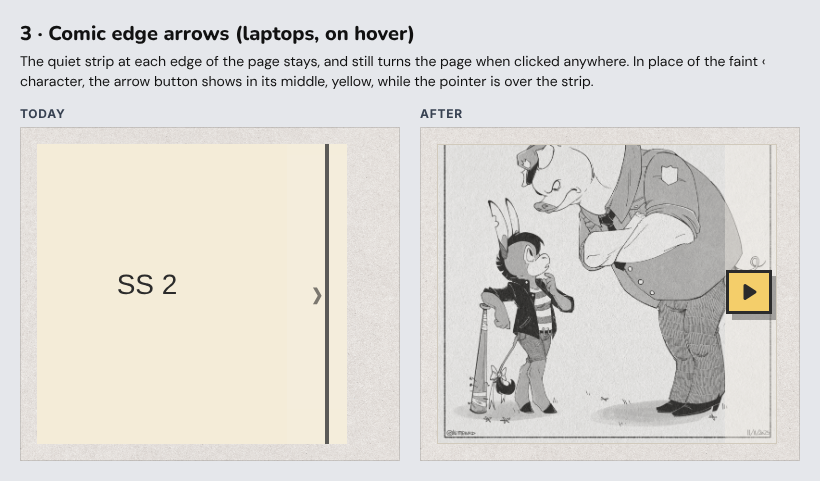
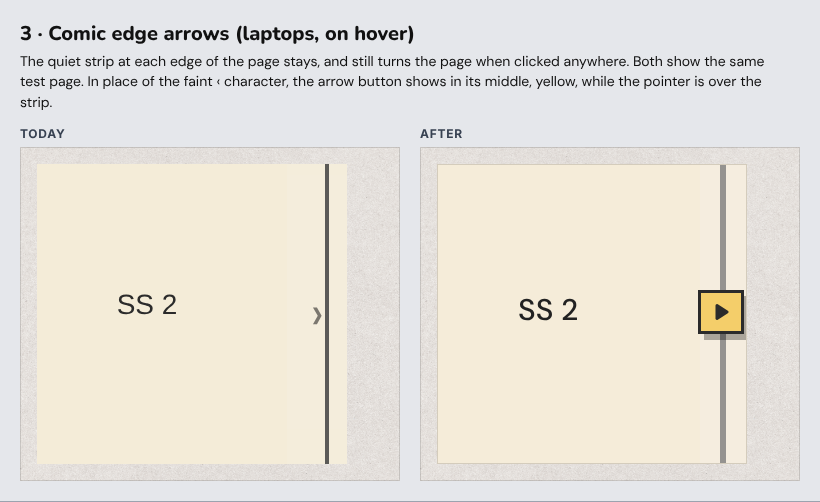
Arrows design: fold in the persona walkthrough
One blocking finding: a hover lift written as a transform would move full
screen's centred side buttons, so the lift now uses the translate
property. Also: hover only where the device can hover; reduced motion
means no movement; exact values for "can't be used"; the carousel has
no such state; three spoken names lose an arrow, not one; the guide's
second "Back to page" line; mock-ups 3 to 5 redrawn at the same scale
and content and on the carousel's kraft band; new mock-ups 10 and 11
for the carousel and full screen with text at 200%.

Claude-Session: https://claude.ai/code/session_01HWRLNSVAoX5Ni8d8XcwJh1

diff --git a/docs/design/mockups/arrows/mockups.html b/docs/design/mockups/arrows/mockups.html
@@ -17,6 +17,7 @@
   .tag { font: 700 12px system-ui; text-transform: uppercase; letter-spacing: .06em; color: #374151; margin: 0 0 6px; }
   .paper { background: var(--beige) url('../../../../public/assets/images/Paper_2_Tileable.png'); background-size: 400px; color: var(--ink); }
   .dark { background: var(--night); color: var(--beige); }
+  .kraft { background: #bd9f76 url('../../../../public/assets/images/Paper_2_Tileable.png'); background-size: 420px; background-blend-mode: multiply; color: var(--ink); }
   .pair { display: grid; grid-template-columns: 1fr 1fr; gap: 20px; align-items: start; }
   .cell { padding: 16px; border: 1px solid #0002; }
   img.today { display: block; max-width: 100%; }
@@ -153,33 +154,33 @@
 <!-- 3 -->
 <div class="frame" id="f3" style="width:820px">
   <h2>3 · Comic edge arrows (laptops, on hover)</h2>
-  <p class="sub">The quiet strip at each edge of the page stays, and still turns the page when clicked anywhere. In place of the faint ‹ character, the arrow button shows in its middle, yellow, while the pointer is over the strip.</p>
+  <p class="sub">The quiet strip at each edge of the page stays, and still turns the page when clicked anywhere. Both show the same test page. In place of the faint ‹ character, the arrow button shows in its middle, yellow, while the pointer is over the strip.</p>
   <div class="pair">
     <div><p class="tag">Today</p><div class="cell paper"><img class="today" src="today-comic-edge.png" style="height:300px"></div></div>
-    <div><p class="tag">After</p><div class="cell paper"><div class="edge" style="width:340px"><div class="page"></div><div class="zone"><span class="ab hover"><svg viewBox="0 0 24 24"><use href="#next"/></svg></span></div></div></div></div>
+    <div><p class="tag">After</p><div class="cell paper"><div class="edge" style="width:310px; background:#f5ecd9"><span style="position:absolute; left:80px; top:125px; font:500 30px 'DM Sans'; color:#222">SS 2</span><span style="position:absolute; right:20px; top:0; bottom:0; width:6px; background:#555"></span><div class="zone"><span class="ab hover"><svg viewBox="0 0 24 24"><use href="#next"/></svg></span></div></div></div></div>
   </div>
 </div>
 
 <!-- 4 -->
 <div class="frame" id="f4" style="width:720px">
   <h2>4 · Portfolio carousel</h2>
-  <p class="sub">The black squares with ‹ and › become the same arrow buttons. The right one shows the pointer over it.</p>
+  <p class="sub">The black squares with ‹ and › become the same arrow buttons, on the section's kraft band. The right one shows the pointer over it.</p>
   <p class="tag">Today</p>
   <div class="cell paper" style="margin-bottom:16px"><img class="today" src="today-carousel.png" width="640"></div>
   <p class="tag">After</p>
-  <div class="cell paper"><div class="carousel"><span class="ab"><svg viewBox="0 0 24 24"><use href="#previous"/></svg></span><div class="thumb"></div><div class="thumb"></div><div class="thumb"></div><span class="ab hover"><svg viewBox="0 0 24 24"><use href="#next"/></svg></span></div></div>
+  <div class="cell kraft"><div class="carousel"><span class="ab"><svg viewBox="0 0 24 24"><use href="#previous"/></svg></span><div class="thumb"></div><div class="thumb"></div><div class="thumb"></div><span class="ab hover"><svg viewBox="0 0 24 24"><use href="#next"/></svg></span></div></div>
 </div>
 
 <!-- 5 -->
 <div class="frame" id="f5" style="width:1180px">
   <h2>5 · Full screen on a laptop</h2>
-  <p class="sub">The same button, turned around for the dark view: near-black with a beige border, arrow and caption, and a pale shadow. On the first piece, Previous can't be used. The emoji-prone ◀ ▶ characters go.</p>
+  <p class="sub">The same button, turned around for the dark view: near-black with a beige border, arrow and caption, and a pale shadow. On the first piece, Previous can't be used. The emoji-prone ◀ ▶ characters go. Both are a 1100 by 800 screen shown at half size; the bars and Close are unchanged.</p>
   <div class="pair">
-    <div><p class="tag">Today</p><img class="today" src="today-full-screen.png" width="550"></div>
+    <div><p class="tag">Today</p><img class="today" src="today-full-screen.png" width="550"></div><!-- after: drawn at the same 1100 by 800 and shown at half size, like today -->
     <div><p class="tag">After</p>
-      <div class="fs dark" style="width:550px; height:400px">
+      <div class="fs dark" style="width:1100px; height:800px; zoom:0.5">
         <div class="top"><b>Night Market</b><span>1 of 12 · Original Work</span><span class="close">✕ Close</span></div>
-        <div class="pic" style="inset:60px 80px 70px"></div>
+        <div class="pic" style="inset:70px 90px 80px"></div>
         <span class="ab off side" style="left:8px"><svg viewBox="0 0 24 24"><use href="#previous"/></svg>Previous</span>
         <span class="ab side" style="right:8px"><svg viewBox="0 0 24 24"><use href="#next"/></svg>Next</span>
         <div class="zoom" style="bottom:10px"><span class="zb off">−</span><span class="lvl">100%</span><span class="zb">+</span><span class="zb off" style="font-size:.85rem">Fit</span></div>
@@ -269,6 +270,35 @@
       <span class="ab off" style="order:3"><svg class="dbl" viewBox="0 0 32 24"><use href="#first"/></svg>First</span>
       <span class="ab" style="order:4"><svg class="dbl" viewBox="0 0 32 24"><use href="#newest"/></svg>Newest</span>
     </div>
+  </div>
+</div>
+
+<!-- 10 -->
+<div class="frame" id="f10" style="width:380px">
+  <h2>10 · The carousel, enlarged text</h2>
+  <p class="sub">A 320 px phone with text at 200%, on the Fan Art band (the darkest). The arrows stay 44 px; the right one has keyboard focus (the purple ring, 3.8:1 on the band).</p>
+  <div class="kraft" style="width:320px; padding:20px 8px">
+    <div style="font:900 2.4rem/1.1 'Nunito'; margin:0 4px 14px">Fan Art</div>
+    <div class="carousel" style="width:304px; gap:6px">
+      <span class="ab"><svg viewBox="0 0 24 24"><use href="#previous"/></svg></span>
+      <div class="thumb" style="flex:0 0 140px; height:180px"></div>
+      <div class="thumb" style="flex:1; height:180px"></div>
+      <span class="ab focus"><svg viewBox="0 0 24 24"><use href="#next"/></svg></span>
+    </div>
+  </div>
+</div>
+
+<!-- 11 -->
+<div class="frame" id="f11" style="width:380px">
+  <h2>11 · Full screen, enlarged text</h2>
+  <p class="sub">A 320 px phone held upright with text at 200%. The buttons grow to fit "Previous" and "Next"; the zoom controls move to their own row above them.</p>
+  <div class="fs dark" style="width:320px; height:640px">
+    <div class="top" style="height:72px"><b style="font-size:1.6rem">Night Market</b><span class="close" style="font-size:1.6rem">✕</span></div>
+    <div class="pic" style="inset:80px 8px 190px"></div>
+    <div class="bottom" style="height:180px"></div>
+    <div class="zoom" style="bottom:102px"><span class="zb off" style="font-size:2rem">−</span><span class="lvl" style="font-size:1.5rem">100%</span><span class="zb" style="font-size:2rem">+</span><span class="zb off" style="font-size:1.5rem">Fit</span></div>
+    <span class="ab side" style="left:8px; top:auto; bottom:12px; transform:none; width:auto; min-width:56px; min-height:72px; font-size:1.4rem; padding:4px 10px"><svg viewBox="0 0 24 24"><use href="#previous"/></svg>Previous</span>
+    <span class="ab side" style="right:12px; top:auto; bottom:12px; transform:none; width:auto; min-width:56px; min-height:72px; font-size:1.4rem; padding:4px 10px"><svg viewBox="0 0 24 24"><use href="#next"/></svg>Next</span>
   </div>
 </div>
 

diff --git a/docs/design/arrows.md b/docs/design/arrows.md
@@ -48,11 +48,13 @@ Four kinds of arrow are in use, none from the style guide:
 **One button.** Every arrow that stands on its own, without words beside it, sits in one button style, built from the style guide's parts (mock-up 7):
 
 - **At rest:** beige (`--color-beige`), a 3 px ink border, sharp corners, and the hard shadow, 4 px down and right (`4px 4px 0 rgba(0,0,0,.3)`). At least 44 by 44 px.
-- **Pointer over it:** yellow (`--color-yellow`), lifted 2 px up and left, with the shadow at 6 px. This is the site's primary buttons' hover (`.btn-primary`).
-- **Pressed:** yellow, moved 2 px down and right, with no shadow, as if pressed onto the paper.
+- **Pointer over it:** yellow (`--color-yellow`), lifted 2 px up and left, with the hard shadow at 6 px (`6px 6px 0 rgba(0,0,0,.3)`). The colour and lift are the site's primary buttons' (`.btn-primary`); the shadow stays hard. Only where the device can hover (`@media (hover: hover)`): on a phone, a tapped button that doesn't load a new page (full screen, the carousel) would otherwise stay yellow and lifted, and read as "selected".
+- **Pressed:** yellow, moved 2 px down and right, with no shadow, as if pressed onto the paper (`:active`, on every device).
+- **How it moves:** the lift and the press use the CSS `translate` property, not `transform`, so they add to a button's own positioning. Full screen's side buttons centre themselves with `transform: translateY(-50%)`; a lift written as a `transform` would replace that and make them jump.
 - **Keyboard focus:** the site's focus ring, 2 px dark purple (`--color-dark-purple`) 2 px outside the border, shown only for the keyboard (`:focus-visible`).
-- **Can't be used:** as today, a dashed, faded border and a faded arrow; no shadow and no fill, so it reads as flat and out of reach.
-- **Motion:** the colour, lift and shadow change over 120 ms (`--transition-fast`). With reduced motion, they change at once.
+- **Can't be used:** a dashed border at 40% ink (`rgba(43,43,43,.4)`) and the arrow and caption at 45% ink (`rgba(43,43,43,.45)`), as today. New: no shadow, and no fill (today's controls keep their beige), so it reads as flat and out of reach. On dark: border, arrow and caption at `#f5f1e877`, as today. These fall below 3:1 on purpose; WCAG exempts controls that can't be used from contrast, and they're also `aria-disabled` and skipped by Tab.
+- **The carousel has no "can't be used" state,** as today: its arrows scroll the row and do nothing at its ends.
+- **Motion:** the colour, lift and shadow change over 120 ms (`--transition-fast`). With reduced motion, nothing moves: the colour and shadow change at once, and there's no lift or press movement (as the site's `.btn` does today).
 
 **On dark** (full screen), the same button turned around: near-black (`#161616`) with a beige border, arrow and caption, and a pale shadow (`4px 4px 0 rgba(245,241,232,.25)`). With the pointer over it or pressed, it turns yellow with an ink arrow, as on paper. Its focus ring stays full screen's yellow, 3 px, which shows on near-black where purple wouldn't.
 
@@ -64,8 +66,8 @@ Four kinds of arrow are in use, none from the style guide:
 |---|---|---|
 | 1 | Comic reader controls | The same four controls, places, sizes (at least 56 px tall), captions and full-name labels (design-comic-sheet-and-controls#layout), in the arrow button style, with the soft arrows (mock-up 2). |
 | 2 | Comic edge arrows | The quiet strip at each edge of the page stays (15% of the page wide, the page's full height, laptops only, mouse only), and still turns the page wherever it's clicked. In place of the faint character, the arrow button shows in the middle of the strip, yellow, while the pointer is over the strip; elsewhere nothing shows (mock-up 3). It stays hidden from screen readers and isn't a tab stop (design-comic-turn-pages#layout). |
-| 3 | Portfolio carousel | Two arrow buttons, at least 44 px (40 px today), either side of the row; they no longer grow on hover (mock-up 4). On a narrow screen with large text they keep their 44 px; the row of pictures gives up the room. |
-| 4 | Full screen **Previous** and **Next** | The dark arrow button, with its caption, in the same places (design-portfolio-full-screen#how-it-works): at the sides on a laptop or a phone held sideways (mock-up 5), and in the bottom bar's corners on a phone held upright (mock-up 6). |
+| 3 | Portfolio carousel | Two arrow buttons, 44 by 44 px at every width (today `min(2.5rem, 12vw)`, 40 px on a laptop and 38 px on a 320 px phone), either side of the row, on its kraft band; they no longer grow on hover (mock-up 4). On a 320 px phone with text at 200%, the row of pictures gives up the 12 px, keeping about 130 px (mock-up 10). |
+| 4 | Full screen **Previous** and **Next** | The dark arrow button, with its caption, in the same places (design-portfolio-full-screen#how-it-works): at the sides on a laptop or a phone held sideways (mock-up 5), and in the bottom bar's corners on a phone held upright (mock-up 6). Each is at least 56 px wide and grows to fit its caption, which today overflows its fixed 56 px with enlarged text. On a phone held upright, when **Previous**, the zoom controls and **Next** don't fit on one row, the zoom controls move to a row of their own above them, and the bottom bar grows to hold both (mock-up 11). |
 | 5 | Words with arrows | **Chapter 1** and **Chapter 3** under the contact sheet, **Back to page 4** in its bars, "Read it" on the writing page and "Email me to get started" on the commissions page get the drawn triangle in place of ← and →. The chapter list's ▾ and ▴ become the triangle pointing down and up (mock-up 8). The links and buttons otherwise look as today. |
 
 Not changed: **Close** (✕), the zoom buttons (**+**, **−**, **Fit**), **All pages**, **Back to series**, and the menu button. They aren't arrows. Arrows in Star's own writing, and the story reader's scene break (⁂), are content, not controls.
@@ -78,22 +80,24 @@ Built to match the site, with its fonts, colours, paper and pictures. Source: `m
 |---|---|---|
 | 1 | The shape: previous, next, first, newest and fold-out, and large beside Nunito | `mockups/arrows/1-shape.png` |
 | 2 | Comic reader controls: today; on a laptop, on the newest page, with the pointer over **Previous** and its full name; on a 390 px phone, on page 1 | `mockups/arrows/2-comic-controls.png` |
-| 3 | Comic edge arrow on a laptop: today, and with the pointer over the right strip | `mockups/arrows/3-comic-edge.png` |
-| 4 | Portfolio carousel: today, and with the pointer over the right button | `mockups/arrows/4-carousel.png` |
-| 5 | Full screen on a laptop, on the first piece: today, and after | `mockups/arrows/5-full-screen-laptop.png` |
+| 3 | Comic edge arrow on a laptop, on the same page: today, and with the pointer over the right strip | `mockups/arrows/3-comic-edge.png` |
+| 4 | Portfolio carousel, on its kraft band: today, and with the pointer over the right button | `mockups/arrows/4-carousel.png` |
+| 5 | Full screen on a laptop, on the first piece, at the same scale: today, and after | `mockups/arrows/5-full-screen-laptop.png` |
 | 6 | Full screen on a phone held upright: at rest, and with **Next** pressed | `mockups/arrows/6-full-screen-phone.png` |
 | 7 | The states, on paper and on dark | `mockups/arrows/7-states.png` |
 | 8 | Arrows beside words: today and after | `mockups/arrows/8-arrows-in-words.png` |
 | 9 | A 320 px phone with text at 200%: the controls wrap two by two, as today | `mockups/arrows/9-text-200-narrow.png` |
+| 10 | The carousel on a 320 px phone with text at 200%: 44 px arrows, and keyboard focus on the right one, on the kraft band | `mockups/arrows/10-carousel-text-200.png` |
+| 11 | Full screen on a 320 px phone held upright, with text at 200%: the buttons fit their captions, and the zoom controls sit on their own row | `mockups/arrows/11-full-screen-text-200.png` |
 
 ## Accessibility
 
-- Names don't change: the controls keep "First page of the series", "Previous page", "Next page", "Newest page of the series" (or "Last…"); the carousel keeps "Scroll left" and "Scroll right"; full screen keeps "Previous" and "Next"; the chapter links keep "Previous chapter: Chapter 1" and "Next chapter: Chapter 3". The drawn arrows are hidden from screen readers (`aria-hidden`), so nothing reads "left arrow" or "black right-pointing triangle". **Back to page 4** loses the typed ←, so a screen reader no longer reads an arrow before its name.
+- Names don't change: the controls keep "First page of the series", "Previous page", "Next page", "Newest page of the series" (or "Last…"); the carousel keeps "Scroll left" and "Scroll right"; full screen keeps "Previous" and "Next"; the chapter links keep "Previous chapter: Chapter 1" and "Next chapter: Chapter 3". The drawn arrows are hidden from screen readers (`aria-hidden`), so nothing reads "left arrow" or "black right-pointing triangle". Three names lose a typed arrow, so a screen reader no longer reads it: **Back to page 4** ("← Back to page 4" today), "Read it" and "Email me to get started" (which have no label of their own, so their words are their names).
 - Every arrow button is at least 44 by 44 px, and the comic controls at least 56 px tall, as today.
 - The ink arrow on beige or yellow, and the beige arrow on near-black, are well above 3:1, as graphics need. The yellow hover doesn't carry meaning on its own: hovering is a pointer effect, and the button is the same button.
-- Keyboard focus shows the site's ring (REQ-site-4), which the controls and carousel buttons don't show clearly today; full screen keeps its yellow ring.
-- With reduced motion, nothing moves: hover and press change colour and shadow at once (REQ-site-4).
-- With text at 200%, the captions grow and the arrows keep their size; the comic controls wrap two by two, as today (mock-up 9).
+- Keyboard focus shows the site's ring (REQ-site-4). The comic controls are links and already show it; the carousel buttons show only the browser's own ring today, and gain the site's. On the carousel's kraft band (`#bd9f76` at its darkest) the purple ring is 3.8:1, above the 3:1 a focus ring needs (mock-up 10). Full screen keeps its yellow ring: purple on near-black would be 1.9:1.
+- With reduced motion, nothing moves: hover and press change colour and shadow at once, with no lift or press movement (REQ-site-4).
+- With text at 200%, the captions grow and the arrows keep their size; the comic controls wrap two by two, as today (mock-up 9); the carousel keeps 44 px arrows (mock-up 10); full screen's buttons grow to their captions (mock-up 11).
 
 ## Other documents
 
@@ -105,16 +109,18 @@ Earlier designs aren't edited, so their history stays readable; this design repl
 
 ## For the guide
 
-The fans' guide `reading-comics.md` names **← Back to page 4**, **← Chapter 1** and **Chapter 3 →**. With the typed arrows gone from those names, it reads **Back to page 4**, **Chapter 1** and **Chapter 3**. `viewing-artwork.md` names no arrows and doesn't change.
+The fans' guide `reading-comics.md` names **← Back to page 4** (twice: where the sheet is described, and where it says how to go back) and **← Chapter 1** and **Chapter 3 →**. With the typed arrows gone from those names, it reads **Back to page 4**, **Chapter 1** and **Chapter 3**. `viewing-artwork.md` names no arrows and doesn't change.
 
 ## For the spec to check
 
 - No control on the site uses a typed arrow (‹ › ◀ ▶ ← → ▾ ▴ ⏮ ⏭): the comic controls, edge arrows, carousel, full screen, contact sheet links, the chapter list, "Read it" and "Email me to get started" use the drawn shape, from one shared source, hidden from screen readers.
-- The arrow buttons in the comic reader, the edge arrows, the carousel and full screen share one style: at rest, a 3 px border and a 4 px hard shadow; with the pointer over them, yellow, lifted 2 px, with a 6 px shadow; pressed, yellow, with no shadow; can't be used, dashed with no shadow; and the dark variant in full screen.
+- The arrow buttons in the comic reader, the edge arrows, the carousel and full screen share one style: at rest, a 3 px border and a 4 px hard shadow; with the pointer over them (only where the device can hover), yellow, lifted 2 px, with a 6 px hard shadow; pressed, yellow, with no shadow; can't be used (not the carousel), dashed with no shadow and no fill; and the dark variant in full screen.
+- The lift and press don't move full screen's side buttons from their places: on a laptop, **Previous** and **Next** stay centred on the screen's height with the pointer over them.
 - Keyboard focus shows a visible ring on each (purple on paper, yellow in full screen); a mouse click doesn't.
-- With reduced motion, the hover and press changes have no transition.
-- Accessible names are unchanged, apart from **Back to page 4** losing its "←".
-- The carousel buttons are at least 44 by 44 px at every width, including 320 px with text at 200%.
+- With reduced motion, the hover and press changes have no transition and no movement.
+- Accessible names are unchanged, apart from **Back to page 4**, "Read it" and "Email me to get started" losing their arrows.
+- The carousel buttons are 44 by 44 px at every width, including 320 px with text at 200%.
+- With text at 200% on a 320 px phone held upright, full screen's **Previous** and **Next** show their whole captions inside their borders, and nothing in the bottom bar overlaps.
 - The comic edge strip still turns the page on a click anywhere in it, and is still hidden from screen readers and not a tab stop.
 - Everything else about the comic reader, portfolio and full screen, including their existing tests, is unchanged.
 
@@ -127,4 +133,19 @@ Questions for the lead:
 
 ## Persona walkthrough
 
-To be run before review.
+A walkthrough for persona-fan, and for persona-artist on the look (2026-11-06), opened each mock-up and checked the design against the code. It found one blocking problem, five misleading ones and seven slower ones. All are addressed above:
+- **Blocking:** a lift written as a CSS `transform` would have replaced full screen's centring of **Previous** and **Next**, making them jump about 36 px on hover (now the lift uses `translate`, with a check for the spec).
+- **Misleading:**
+  - "Read it" and "Email me to get started" lose their arrows from their spoken names too, not only **Back to page 4**;
+  - the hover's shadow is hard, unlike `.btn-primary`'s soft one;
+  - the comic controls already show the site's focus ring; only the carousel doesn't;
+  - on a phone, hover would stick after a tap that loads no new page (now hover is only where the device can hover);
+  - the guide names **← Back to page 4** twice.
+- **Slower:**
+  - reduced motion was stated two ways (now: no movement at all);
+  - mock-up 4 drew the carousel on paper, not its kraft band (redrawn, with the focus ring checked there);
+  - the carousel's "can't be used" state was undefined (it has none);
+  - the carousel's size today, and with text at 200% (mock-up 10);
+  - full screen's captions overflow with text at 200% (now the buttons grow, and the zoom controls take their own row; mock-up 11);
+  - the faded state's values, the contrast exemption, and the fill change;
+  - uneven before-and-after pairs in mock-ups 3 and 5 (now the same page, and the same scale).

diff --git a/docs/STYLE_GUIDE.md b/docs/STYLE_GUIDE.md
@@ -144,14 +144,15 @@ From design-arrows (`docs/design/arrows.md`, with mock-ups in `docs/design/mocku
 - **The shape:** a solid triangle with rounded corners, matching the rounded ends of Nunito's letters. In a 24-unit square it is 10 units wide and 13 tall, drawn with a 3-unit stroke with round joins. One points right for next, left for previous, down or up for a fold-out; two side by side, with a gap, are first and last. Always drawn (SVG) from the shared source, never typed: phones draw characters like ◀ ⏭ as emoji, and fonts draw ‹ → differently.
 - **The button, on paper:**
   - At rest: `--color-beige` background, 3px `--color-ink` border, sharp corners, hard shadow `4px 4px 0 rgba(0,0,0,.3)`; at least 44 × 44px.
-  - Hover: `--color-yellow`, `translate(-2px, -2px)`, shadow `6px 6px 0 rgba(0,0,0,.3)` (as `.btn-primary`).
-  - Pressed: `--color-yellow`, `translate(2px, 2px)`, no shadow.
-  - Can't be used: dashed border and arrow at about 40% ink, no shadow, no fill; `aria-disabled`.
+  - Hover, only under `@media (hover: hover)` so it doesn't stick after a tap: `--color-yellow`, `translate: -2px -2px`, hard shadow `6px 6px 0 rgba(0,0,0,.3)` (the colour and lift of `.btn-primary`, with a hard shadow).
+  - Pressed (`:active`): `--color-yellow`, `translate: 2px 2px`, no shadow.
+  - Use the `translate` property for the lift and press, not `transform`, so they add to a button's own positioning.
+  - Can't be used: dashed border at `rgba(43,43,43,.4)`, arrow and caption at `rgba(43,43,43,.45)`, no shadow, no fill; `aria-disabled` and skipped by Tab (exempt from contrast).
   - Focus: the site's focus ring (see Accessibility).
 - **The button, on dark** (full screen): `#161616` background, beige border, arrow and caption, shadow `4px 4px 0 rgba(245,241,232,.25)`; yellow with an ink arrow on hover and press; a 3px yellow focus ring.
 - **With a caption** (the comic controls, full screen): the arrow above a short Nunito 700 caption, at least 56px tall.
 - **Beside words** (links and buttons): the same triangle at about 0.72em, in the text's colour, on the side it points to, `aria-hidden`. No typed ← → in labels.
-- **Motion:** 120ms (`--transition-fast`) for the colour, lift and shadow; none under reduced motion.
+- **Motion:** 120ms (`--transition-fast`) for the colour, lift and shadow. Under reduced motion, colour and shadow change at once and nothing moves.
 - **Not arrows:** close (✕), zoom (+ − Fit) and menu buttons keep their own looks.
 
 ## Branding & Iconography
